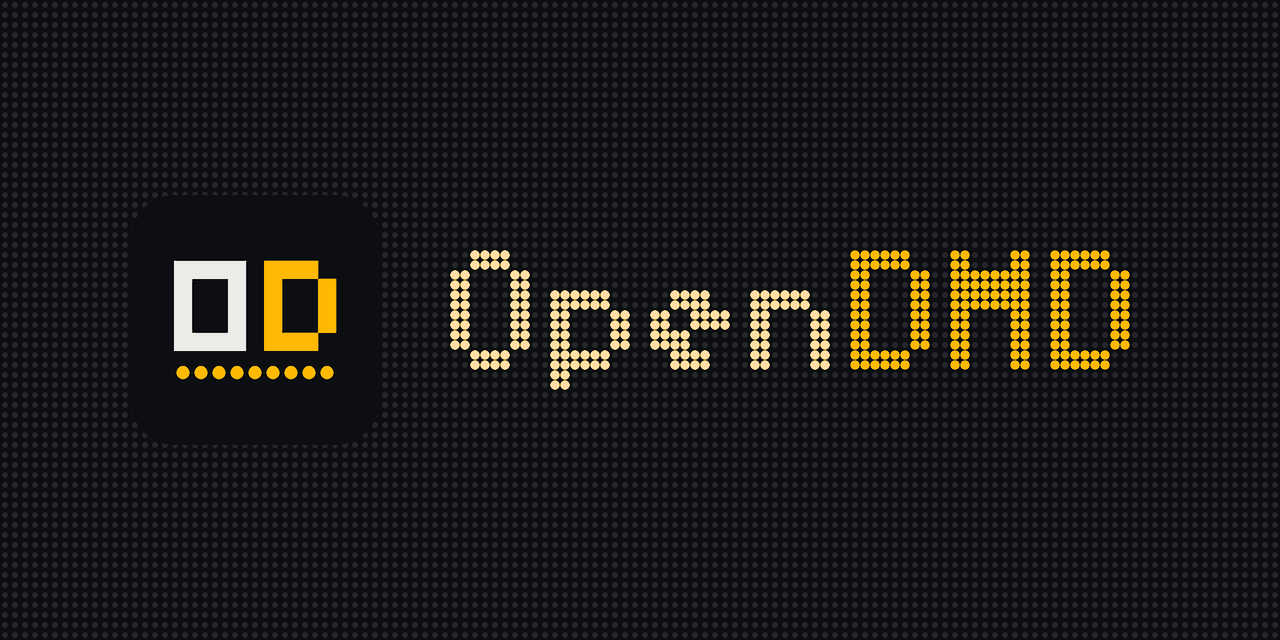
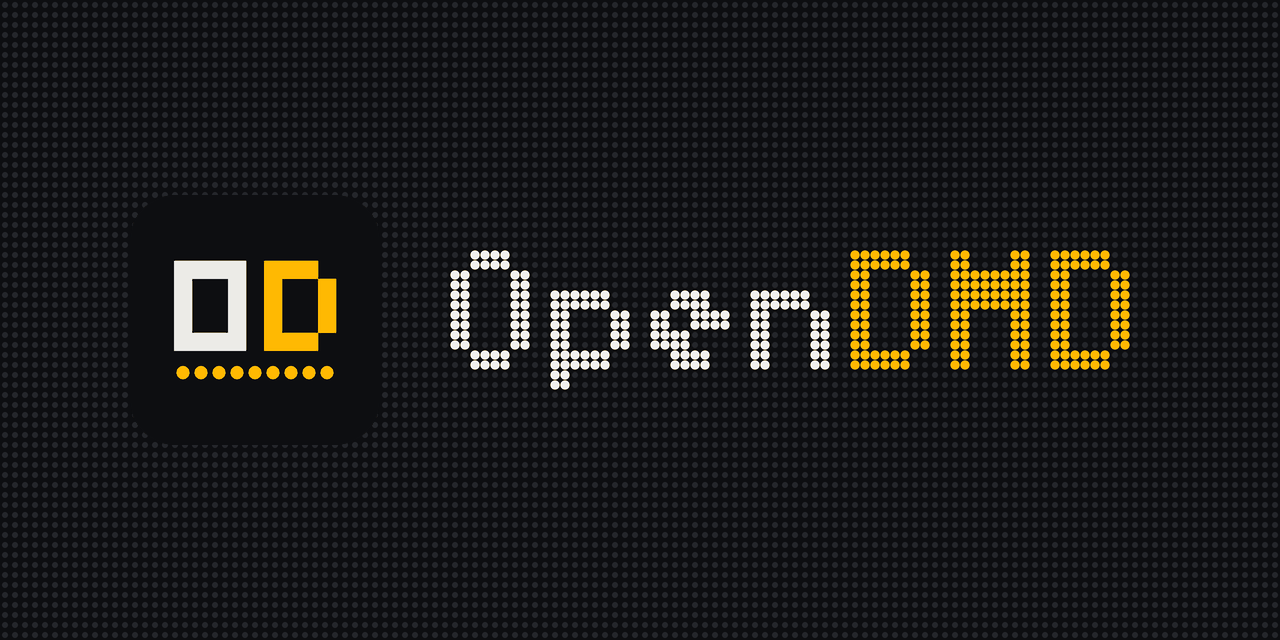
Wordmark pictures: "Open" drawn in off-white, as the panel shows its warm white
The LEDs, driven without gamma correction, show text::TITLE_COLOUR
(255,214,150) as white; on a screen the same numbers read as cream. The
site's wordmark (tools/site-art.py) maps it to the mark's off-white, and the
README wordmark and social preview follow from it.

Claude-Session: https://claude.ai/code/session_01Mda6ajNgpTAMU1uxVDfDKQ

Changed region(s): [[0.3438, 0.375, 0.6562, 0.5938]]

diff --git a/tools/site-art.py b/tools/site-art.py
@@ -75,6 +75,8 @@ ART = [
      "A title card reading GAME OVER, thanks for playing", "Title card"),
 ]
 WORDMARK = "@boot?len=card"
+# The warm white the panel lights "Open" in, and how it is drawn here.
+PANEL_WHITE, PANEL_WHITE_SHOWN = (255, 214, 150), (236, 235, 231)
 # Recordings of something that plays once rather than loops (name: its
 # length, then how much longer its last frame is held, in ms): the start-up
 # show, whose last line, the address, would otherwise be gone in half a second.
@@ -215,6 +217,12 @@ def main() -> None:
         # (200 ms in: before the card's first glint, at 1.5 s.)
         im = shot(a.sim, card, WORDMARK, 200, Path(tmp) / "w.png")
     x0, y0, x1, y1 = im.getbbox()
+    # "Open" is lit in the panel's warm white (opendmd-core text::TITLE_COLOUR),
+    # which the LEDs, driven without gamma correction, show as white; drawn on
+    # a screen the same numbers read as cream. So the picture uses the mark's
+    # off-white for it (tools/logo.py INK), as the panel looks.
+    im = im.convert("RGB")
+    im.putdata([PANEL_WHITE_SHOWN if p == PANEL_WHITE else p for p in (im.get_flattened_data() if hasattr(im, "get_flattened_data") else im.getdata())])
     im.crop((x0 - 1, y0 - 1, x1 + 1, y1 + 1)).quantize(8, dither=Image.Dither.NONE).save(out / "wordmark.png")
     w, h = Image.open(out / "wordmark.png").size
 
